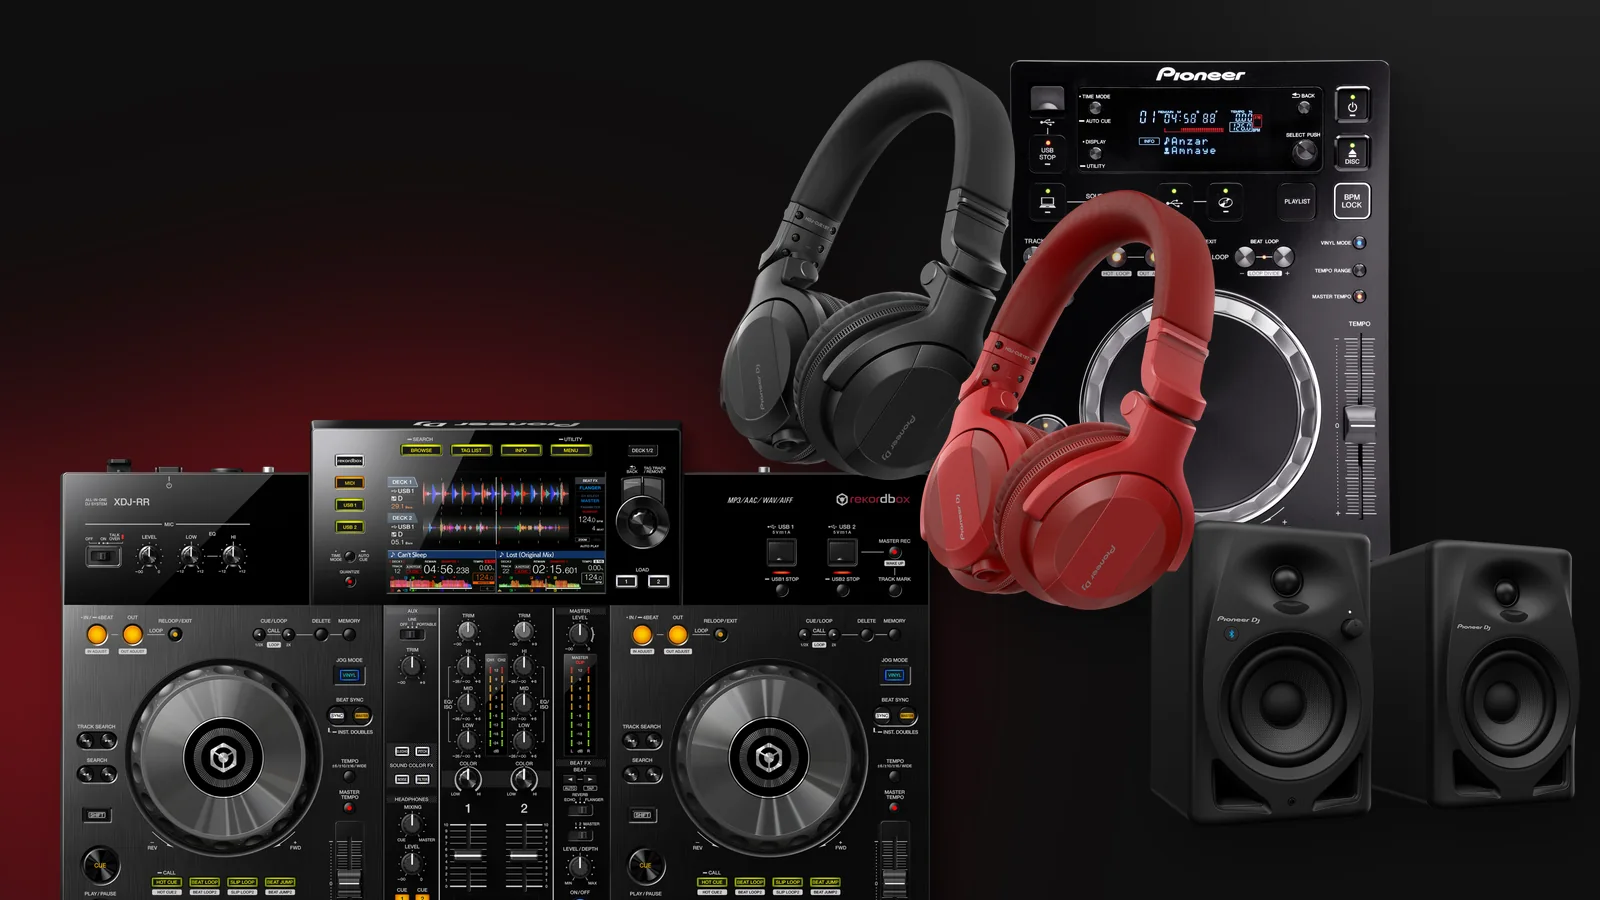
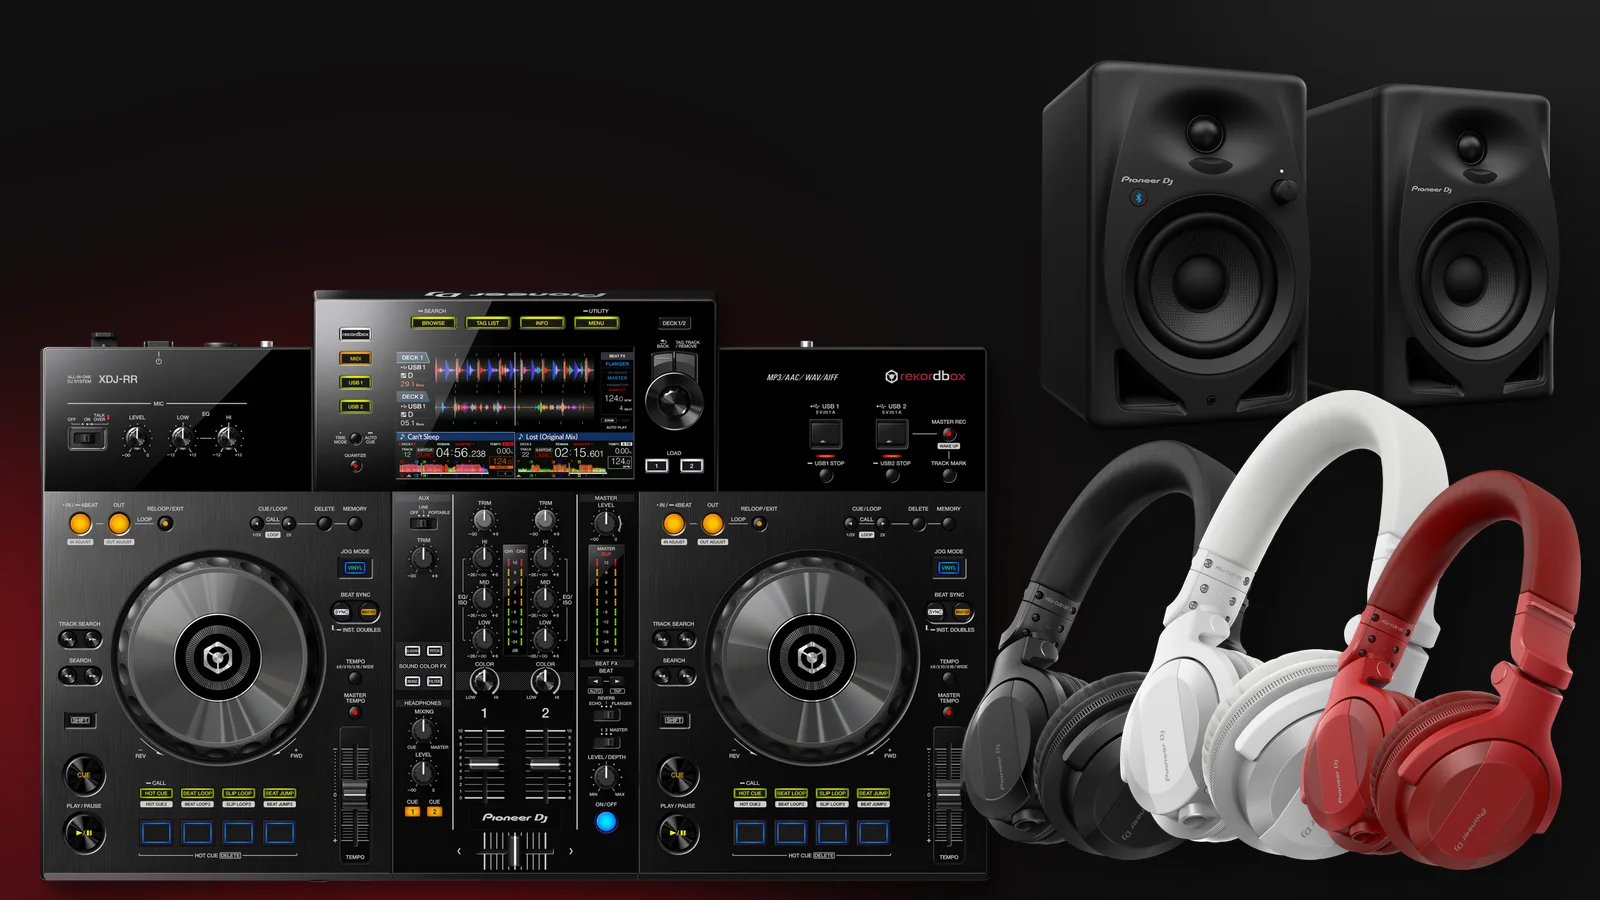
Pop up: แก้รูปโปรให้ตรงกับดีลที่โฆษณาได้ — AlphaTheta ต.ค. ตัด CDJ-350 ออก (เหลือ XDJ-RR, DM-40D-BT, HDJ-CUE1BT) · Starter Pack แสดงเฉพาะ DDJ-FLX2 (DM-40D-BT/HDJ-CUE1BT ไม่อยู่ในราคาเซ็ต) · แก้ alt ให้ตรงรูป · ยังไม่ push

diff --git a/tools/make_popup_images.py b/tools/make_popup_images.py
@@ -52,20 +52,18 @@ def save(canvas, name):
     print(f"{name}  {os.path.getsize(p) / 1024:.0f} KB")
 
 
-# Starter Pack: controller + speakers + headphones
-c = backdrop(520, 600)
-put(c, "dm-40d-bt", width=640, x=850, y=110)
-put(c, "ddj-flx2", width=1020, x=70, y=330)
-put(c, "hdj-cue1bt-w", height=500, x=1060, y=340)
+# Starter Pack: only the controller of the set (the set is DDJ-FLX2/FLX4 + wired HDJ-CUE1 or DM-40D; the BT versions are not in the set price, so they are not shown)
+c = backdrop(560, 640)
+put(c, "ddj-flx2", width=1240, x=180, y=190)
 save(c, "promo-starter-pack.webp")
 
-# AlphaTheta October: player + all-in-one + speakers + headphones
+# AlphaTheta October: only models that the owner allows to be advertised (XDJ-RR, DM-40D-BT, HDJ-CUE1BT W/K/R) — no CDJ-350, DDJ-REV1 or DDJ-GRV6
 c = backdrop(420, 640)
-put(c, "xdj-rr", width=900, x=60, y=420)
-put(c, "cdj-350", height=520, x=1010, y=60)
-put(c, "dm-40d-bt", width=430, x=1150, y=520)
-put(c, "hdj-cue1bt-k", height=420, x=720, y=60)
-put(c, "hdj-cue1bt-r", height=420, x=920, y=190)
+put(c, "xdj-rr", width=980, x=40, y=290)
+put(c, "dm-40d-bt", width=520, x=1040, y=60)
+put(c, "hdj-cue1bt-k", height=420, x=960, y=440)
+put(c, "hdj-cue1bt-w", height=470, x=1120, y=390)
+put(c, "hdj-cue1bt-r", height=400, x=1300, y=470)
 save(c, "promo-alphatheta-oct.webp")
 
 # CDJ / all-in-one special + default: the official dark CDJ-3000X scene, 16:9
